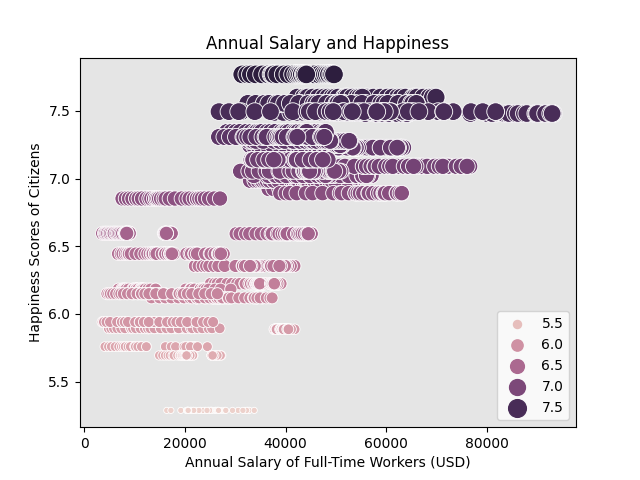
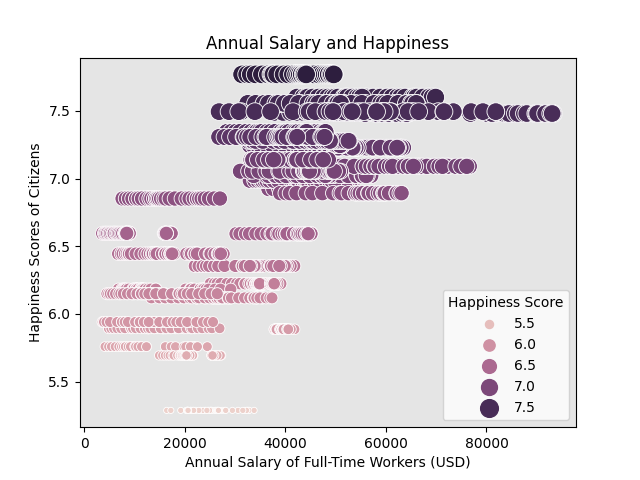
Added title to legend

diff --git a/main.py b/main.py
@@ -58,7 +58,7 @@ plt.xlabel("Annual Salary of Full-Time Workers (USD)")
 plt.ylabel("Happiness Scores of Citizens")
 
 fig.set_facecolor("#E5E5E5")
-plt.legend(loc='lower right')
+plt.legend(loc='lower right', title="Happiness Score")
 
 plt.savefig("salary_and_happiness.png")
 
